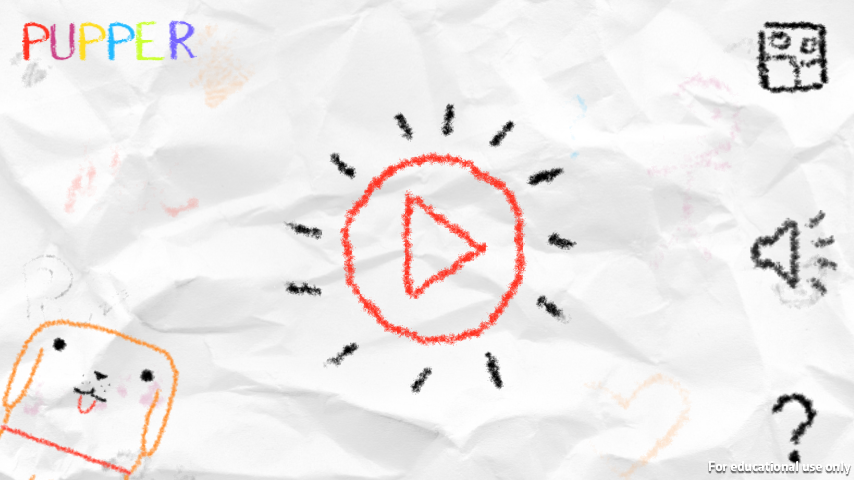
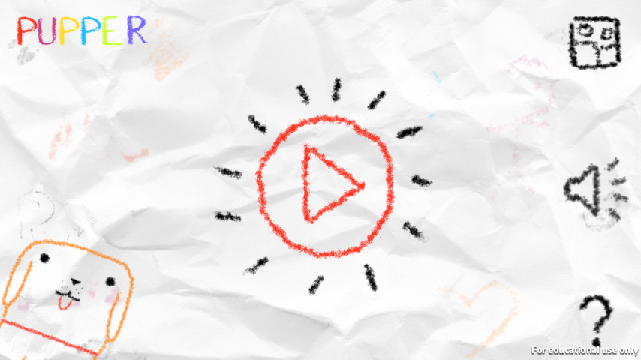
Added cropped and resized images
Editted images to fit the template.

diff --git a/index.html b/index.html
@@ -36,21 +36,21 @@
 
 				<div class="box alt container"> <!--496x360-->
 					<section class="feature left">
-						<a href="#" class="image "><img src="images/pic01.jpg" alt="" /></a>
+						<a href="#" class="image "><img src="images/proimg-ssz-1.jpg" alt="" /></a>
 						<div class="content">
 							<h3>Selfie Subject Zero</h3>
 							<p>Winner of the Kolks Game Jam 2016, it is our take on the theme "Epidemy". Using cute pixel art and Rogue Like mechanics, the game illustrates how the Selfie epidemic began. You can play it <a href="https://www.scirra.com/arcade/action-games/selfie-subject-zero-8433">here.</a></p>
 						</div>
 					</section>
 					<section class="feature right">
-						<a href="#" class="image"><img src="images/pic02.jpg" alt="" /></a>
+						<a href="#" class="image"><img src="images/proimg-pupper-1.png" alt="" /></a>
 						<div class="content">
 							<h3>Pupper</h3>
 							<p>Still in early stages of development, it's an attempt to help children with autism to develop social skills. It also tries to streamline information about the child's development for parents and specialists. Not available as of yet</p>
 						</div>
 					</section>
 					<section class="feature left">
-						<a href="#" class="image"><img src="images/pic03.jpg" alt="" /></a>
+						<a href="#" class="image"><img src="images/proimg-greenbag-1.png" alt="" /></a>
 						<div class="content">
 							<h3>GreenBag</h3>
 							<p>Vitae natoque dictum etiam semper magnis enim feugiat amet curabitur tempor orci penatibus. Tellus erat mauris ipsum fermentum etiam vivamus eget. Nunc nibh morbi quis fusce lacus.</p>
